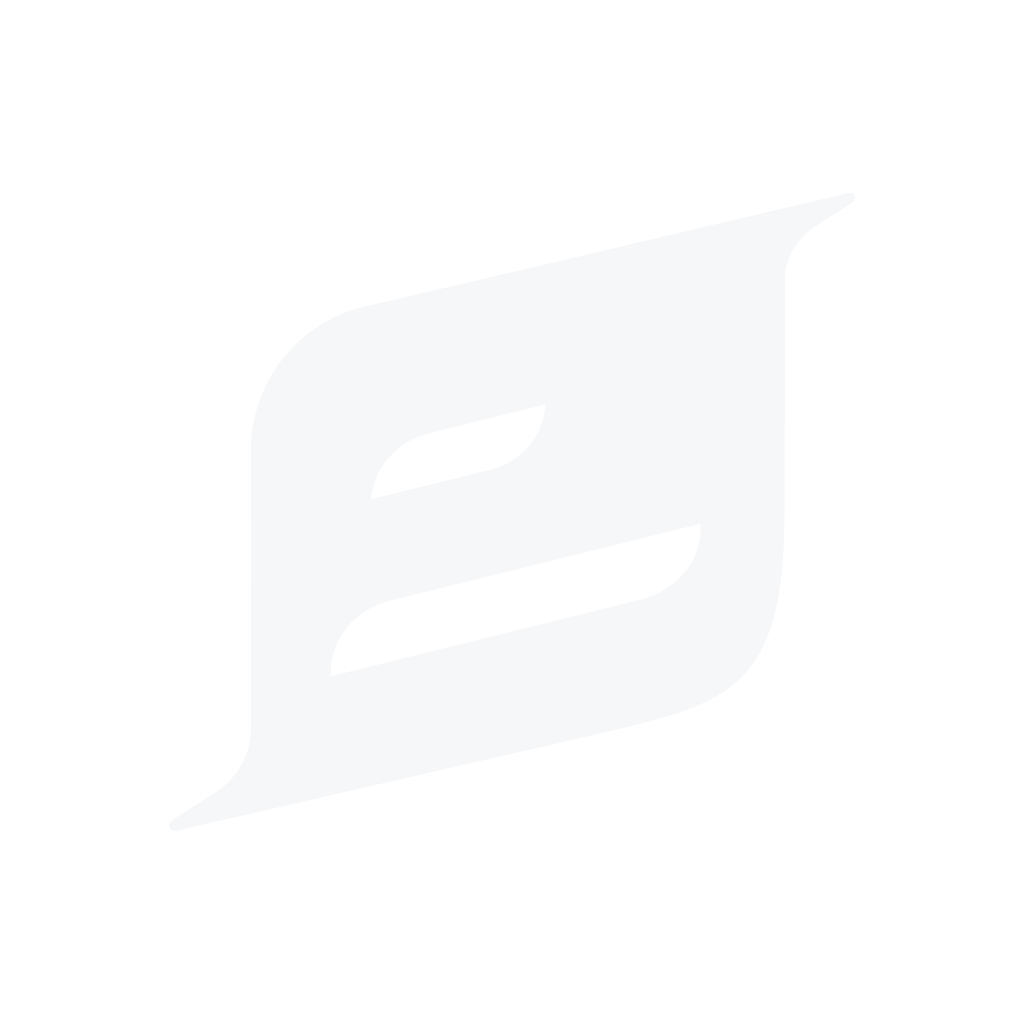
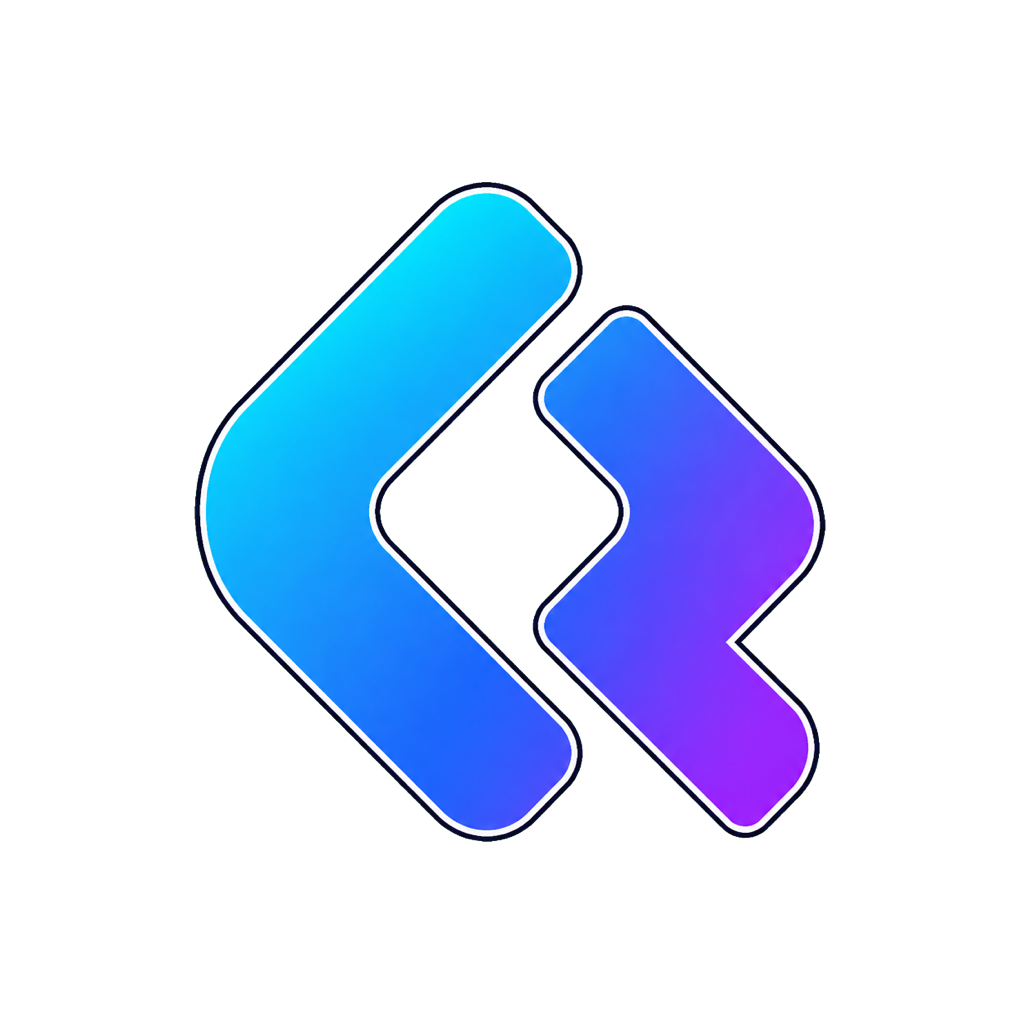
release: prepare scoped 0.1.5 distribution (#13)

Changed region(s): [[0.1875, 0.1562, 0.8125, 0.8438]]

diff --git a/README.md b/README.md
@@ -31,7 +31,15 @@ No account, no key, no signup.
 **Single-file binary.** One file. No Node, no npm, no `node_modules`, nothing installed.
 
 ```bash
-curl -fsSL https://github.com/BargLabs/cejel/releases/latest/download/cejel-$(uname -s)-$(uname -m) -o cejel
+asset="cejel-$(uname -s)-$(uname -m)"
+curl -fsSL "https://github.com/BargLabs/cejel/releases/latest/download/$asset" -o "$asset"
+curl -fsSL https://github.com/BargLabs/cejel/releases/latest/download/SHA256SUMS -o SHA256SUMS
+if command -v sha256sum >/dev/null; then
+  grep "  $asset$" SHA256SUMS | sha256sum -c -
+else
+  grep "  $asset$" SHA256SUMS | shasum -a 256 -c -
+fi
+mv "$asset" cejel
 chmod +x cejel
 ./cejel .
 ```
@@ -48,10 +56,10 @@ docker run --rm --network=none -v "$PWD:/w" -w /w -v "$PWD/cejel:/cejel:ro" debi
 **npm.**
 
 ```bash
-npx cejel .
+npx @cejel/cejel .
 ```
 
-The npm package and executable intentionally share the same unscoped name: `cejel`.
+The npm package is scoped as `@cejel/cejel`; its executable remains the short command `cejel`.
 
 **GitHub Action** — score every PR and publish the badge:
 
@@ -69,9 +77,9 @@ pnpm install && pnpm build
 node dist/index.js .
 ```
 
-Released binaries: `cejel-Darwin-arm64`, `cejel-Linux-x86_64`. A Homebrew tap and the
-remaining architectures are in progress; they are not listed here because they do not exist
-yet.
+Released binaries: `cejel-Darwin-arm64`, `cejel-Darwin-x86_64`, `cejel-Linux-aarch64`, and
+`cejel-Linux-x86_64`. The release also carries `SHA256SUMS`; each binary is executed against
+the source build and with networking denied before attachment.
 
 ## Leaderboard
 
@@ -80,7 +88,7 @@ corpus scored and published in the open — elite OSS projects, Cejel itself, an
 studio monorepo Cejel was built inside — with a per-repository evidence report for every
 row under [`leaderboard/reports/`](./leaderboard/reports/). The board is also hosted at
 [cejel.dev](https://cejel.dev). Every score on this board is produced by the same sealed
-public scorer used by `npx cejel .` — check out the source commit printed in the
+public scorer used by `npx @cejel/cejel .` — check out the source commit printed in the
 report, run the tool, and you will get this number. A required guard does exactly that for
 every corpus row and compares score, verdict, measured coverage, and evidence. No private
 domain collector contributes to any published score, ours included; nobody is exempt.
@@ -283,7 +291,7 @@ Add it to an MCP client config:
   "mcpServers": {
     "cejel": {
       "command": "npx",
-      "args": ["-y", "--package=cejel", "cejel-mcp"]
+      "args": ["-y", "--package=@cejel/cejel", "cejel-mcp"]
     }
   }
 }
@@ -304,7 +312,7 @@ and the server writes no files.
 ## What "offline" means here
 
 Scoring a repo — `cejel .` itself, and the Action's scoring step — makes zero network
-calls: no telemetry, no signup, no model call. Fetching the `cejel` package the
+calls: no telemetry, no signup, no model call. Fetching the `@cejel/cejel` package the
 first time (like any npm-distributed CLI, including this Action's own dependency install)
 does need network; that's a one-time install cost, not part of the scoring guarantee.
 